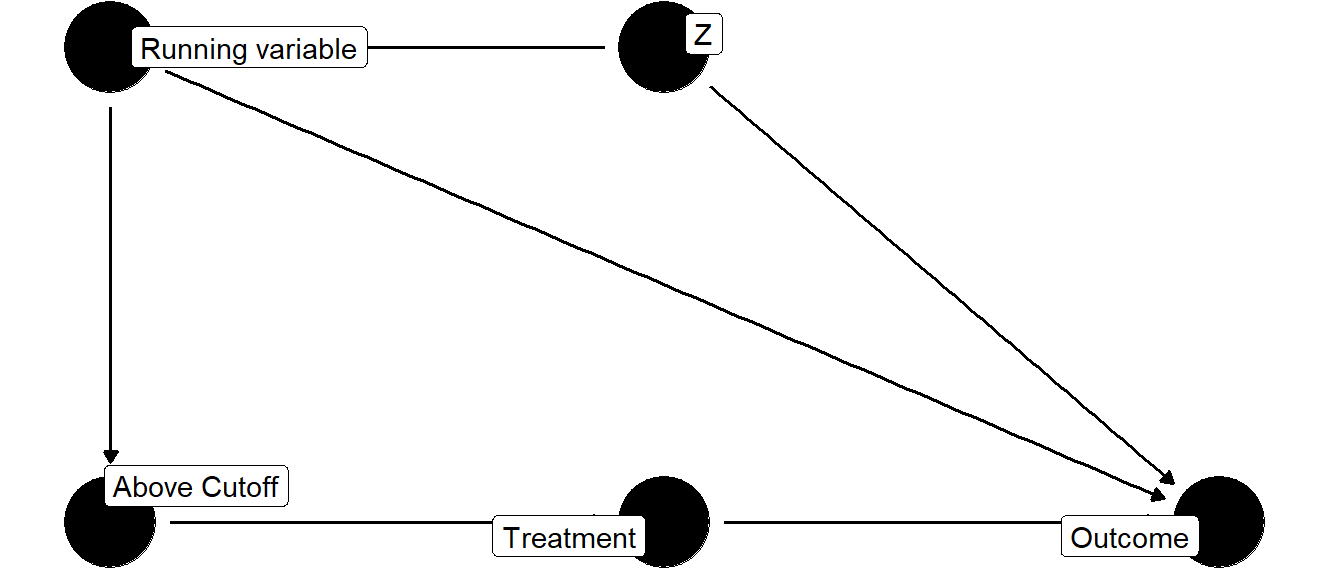
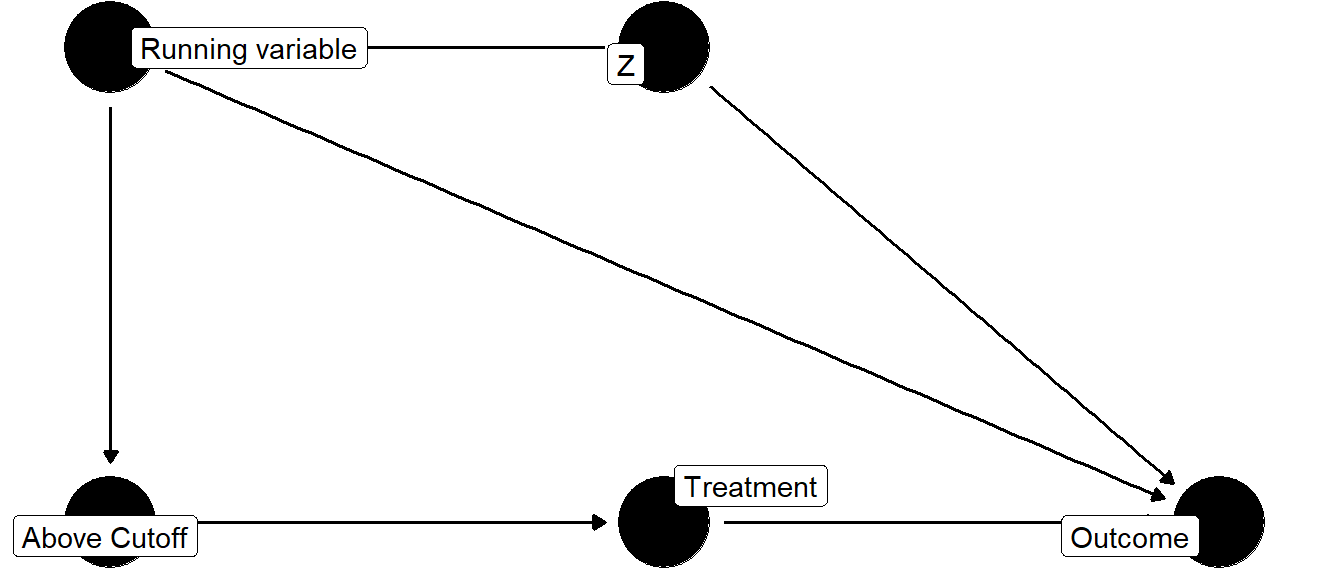
packages

diff --git a/RDD/RDD.html b/RDD/RDD.html
@@ -165,11 +165,11 @@ People close to the cutoff need to effectively be randomly assigned. We must rul
 
 &lt;br&gt;
 &lt;div class="figure"&gt;
-<div id="htmlwidget-fea0fb6943c983f54466" style="width:100%;height:250px;" class="grViz html-widget"></div>
+<div id="htmlwidget-b26e1498c1a0a7519587" style="width:100%;height:250px;" class="grViz html-widget"></div>
 <script>HTMLWidgets.pymChild = new pym.Child();HTMLWidgets.addPostRenderHandler(function(){
                                 setTimeout(function(){HTMLWidgets.pymChild.sendHeight();},100);
                             });</script>
-<script type="application/json" data-for="htmlwidget-fea0fb6943c983f54466">{"x":{"diagram":"digraph \"Causal Diagramm RDD\" {\n  layout=neato\n  fontname=\"Helvetica,Arial,sans-serif\"\n  bgcolor=transparent\n  imagescale=both\n  node [fontname=\"Helvetica,Arial,sans-serif\"]\n  edge [fontname=\"Helvetica,Arial,sans-serif\"]\n  node [shape=none];\n  \"Running Variable\" [pos=\"0,2!\"]\n  \"Above Cutoff\" [pos=\"0,0!\"]\n  \"Treatment\" [pos=\"2,0!\"]\n  \"Z\" [pos=\"2,2!\"]\n  \"Outcome\" [pos=\"4,0!\"]\n\n  \n  \"Above Cutoff\" -> \"Treatment\"\n   \"Running Variable\" ->  \"Above Cutoff\"\n   \"Running Variable\" -> \"Outcome\"\n   \"Treatment\" -> \"Outcome\"\n   \"Z\" ->  \"Running Variable\"\n   \"Z\" -> \"Outcome\"\n \n}","config":{"engine":"dot","options":null}},"evals":[],"jsHooks":[]}</script>
+<script type="application/json" data-for="htmlwidget-b26e1498c1a0a7519587">{"x":{"diagram":"digraph \"Causal Diagramm RDD\" {\n  layout=neato\n  fontname=\"Helvetica,Arial,sans-serif\"\n  bgcolor=transparent\n  imagescale=both\n  node [fontname=\"Helvetica,Arial,sans-serif\"]\n  edge [fontname=\"Helvetica,Arial,sans-serif\"]\n  node [shape=none];\n  \"Running Variable\" [pos=\"0,2!\"]\n  \"Above Cutoff\" [pos=\"0,0!\"]\n  \"Treatment\" [pos=\"2,0!\"]\n  \"Z\" [pos=\"2,2!\"]\n  \"Outcome\" [pos=\"4,0!\"]\n\n  \n  \"Above Cutoff\" -> \"Treatment\"\n   \"Running Variable\" ->  \"Above Cutoff\"\n   \"Running Variable\" -> \"Outcome\"\n   \"Treatment\" -> \"Outcome\"\n   \"Z\" ->  \"Running Variable\"\n   \"Z\" -> \"Outcome\"\n \n}","config":{"engine":"dot","options":null}},"evals":[],"jsHooks":[]}</script>
 &lt;p class="caption"&gt;2: A causal diagram that regression discontinuity works for&lt;/p&gt;
 &lt;/div&gt;
 
@@ -593,11 +593,11 @@ new Runtime().module(define, name =&gt; {
 &lt;br&gt;
 &lt;br&gt;
 &lt;div class="figure"&gt;
-<div id="htmlwidget-431324b271e2410f2946" style="width:100%;height:300px;" class="grViz html-widget"></div>
+<div id="htmlwidget-3d59c52ce0dcb4f28a8d" style="width:100%;height:300px;" class="grViz html-widget"></div>
 <script>HTMLWidgets.pymChild = new pym.Child();HTMLWidgets.addPostRenderHandler(function(){
                                 setTimeout(function(){HTMLWidgets.pymChild.sendHeight();},100);
                             });</script>
-<script type="application/json" data-for="htmlwidget-431324b271e2410f2946">{"x":{"diagram":"digraph \"Causal Diagramm RDD\" {\n  layout=neato\n  fontname=\"Helvetica,Arial,sans-serif\"\n  bgcolor=transparent\n  imagescale=both\n  node [fontname=\"Helvetica,Arial,sans-serif\"]\n  edge [fontname=\"Helvetica,Arial,sans-serif\"]\n  node [shape=none];\n  \"Running Variable\" [pos=\"0,2!\"]\n  \"Above Cutoff\" [pos=\"0,0!\"]\n  \"Treatment\" [pos=\"2,0!\"]\n  \"Z\" [pos=\"2,2!\"]\n  \"Outcome\" [pos=\"4,0!\"]\n\n  \n  \"Above Cutoff\" -> \"Treatment\"\n   \"Running Variable\" ->  \"Above Cutoff\"\n   \"Running Variable\" -> \"Outcome\"\n   \"Z\" -> \"Treatment\"\n   \"Treatment\" -> \"Outcome\"\n   \"Z\" ->  \"Running Variable\"\n   \"Z\" -> \"Outcome\"\n \n}","config":{"engine":"dot","options":null}},"evals":[],"jsHooks":[]}</script>
+<script type="application/json" data-for="htmlwidget-3d59c52ce0dcb4f28a8d">{"x":{"diagram":"digraph \"Causal Diagramm RDD\" {\n  layout=neato\n  fontname=\"Helvetica,Arial,sans-serif\"\n  bgcolor=transparent\n  imagescale=both\n  node [fontname=\"Helvetica,Arial,sans-serif\"]\n  edge [fontname=\"Helvetica,Arial,sans-serif\"]\n  node [shape=none];\n  \"Running Variable\" [pos=\"0,2!\"]\n  \"Above Cutoff\" [pos=\"0,0!\"]\n  \"Treatment\" [pos=\"2,0!\"]\n  \"Z\" [pos=\"2,2!\"]\n  \"Outcome\" [pos=\"4,0!\"]\n\n  \n  \"Above Cutoff\" -> \"Treatment\"\n   \"Running Variable\" ->  \"Above Cutoff\"\n   \"Running Variable\" -> \"Outcome\"\n   \"Z\" -> \"Treatment\"\n   \"Treatment\" -> \"Outcome\"\n   \"Z\" ->  \"Running Variable\"\n   \"Z\" -> \"Outcome\"\n \n}","config":{"engine":"dot","options":null}},"evals":[],"jsHooks":[]}</script>
 &lt;p class="caption"&gt;11: A causal diagram that fuzzy regression discontinuity works for&lt;/p&gt;
 &lt;/div&gt;
 
